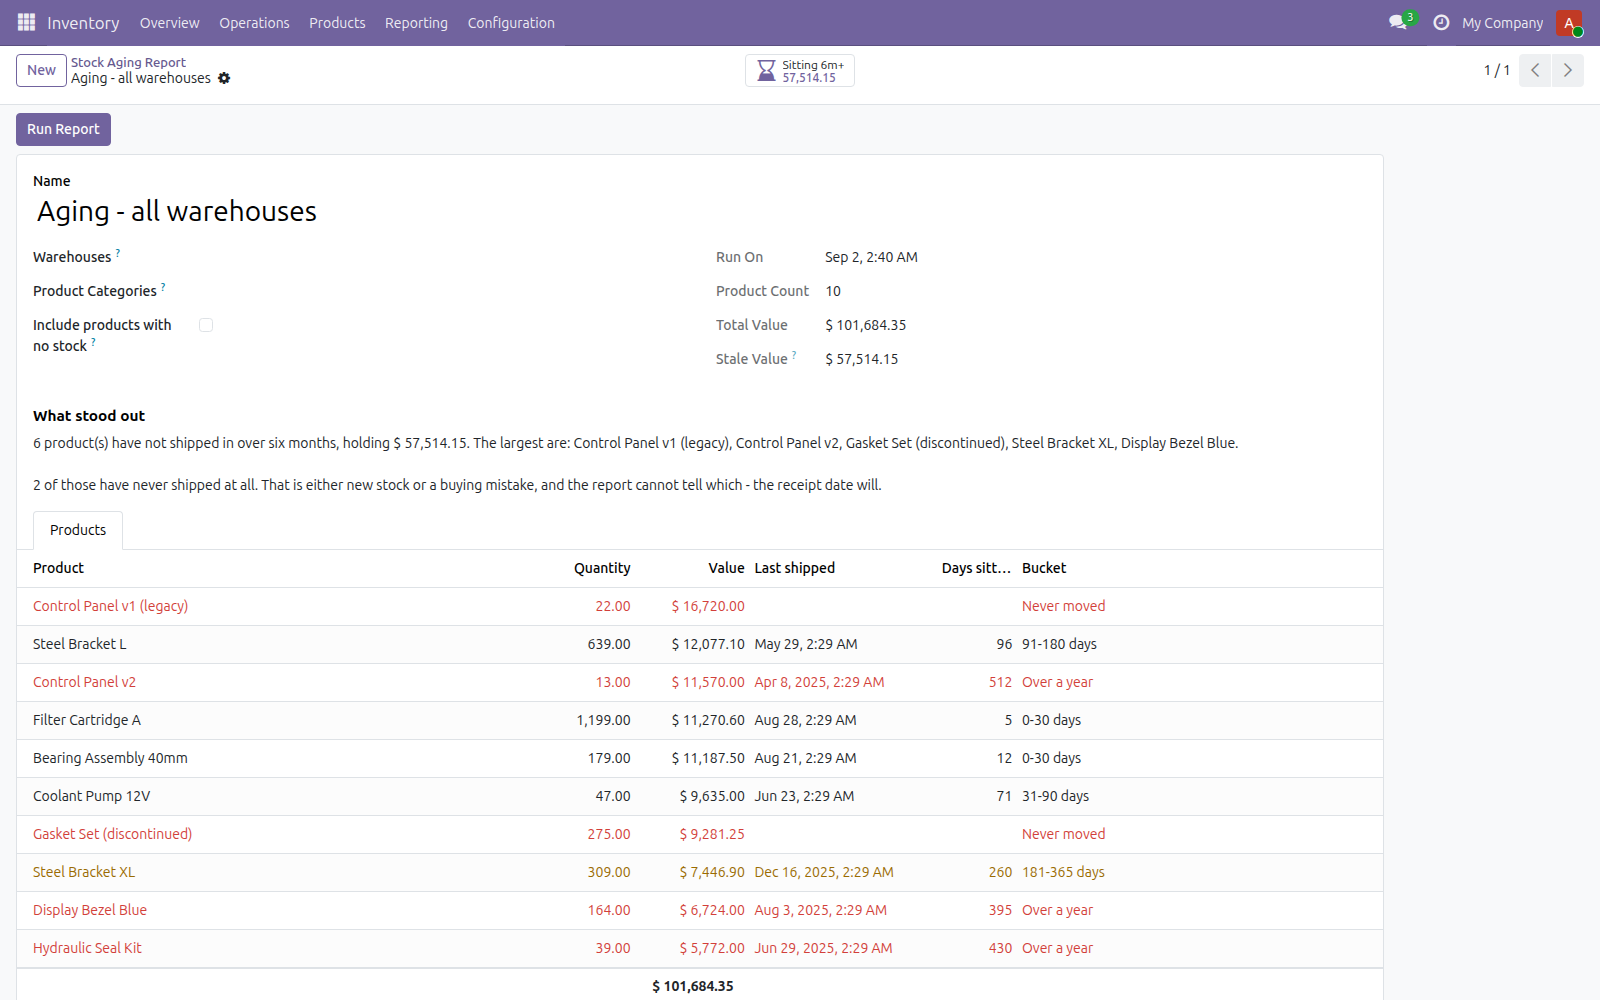
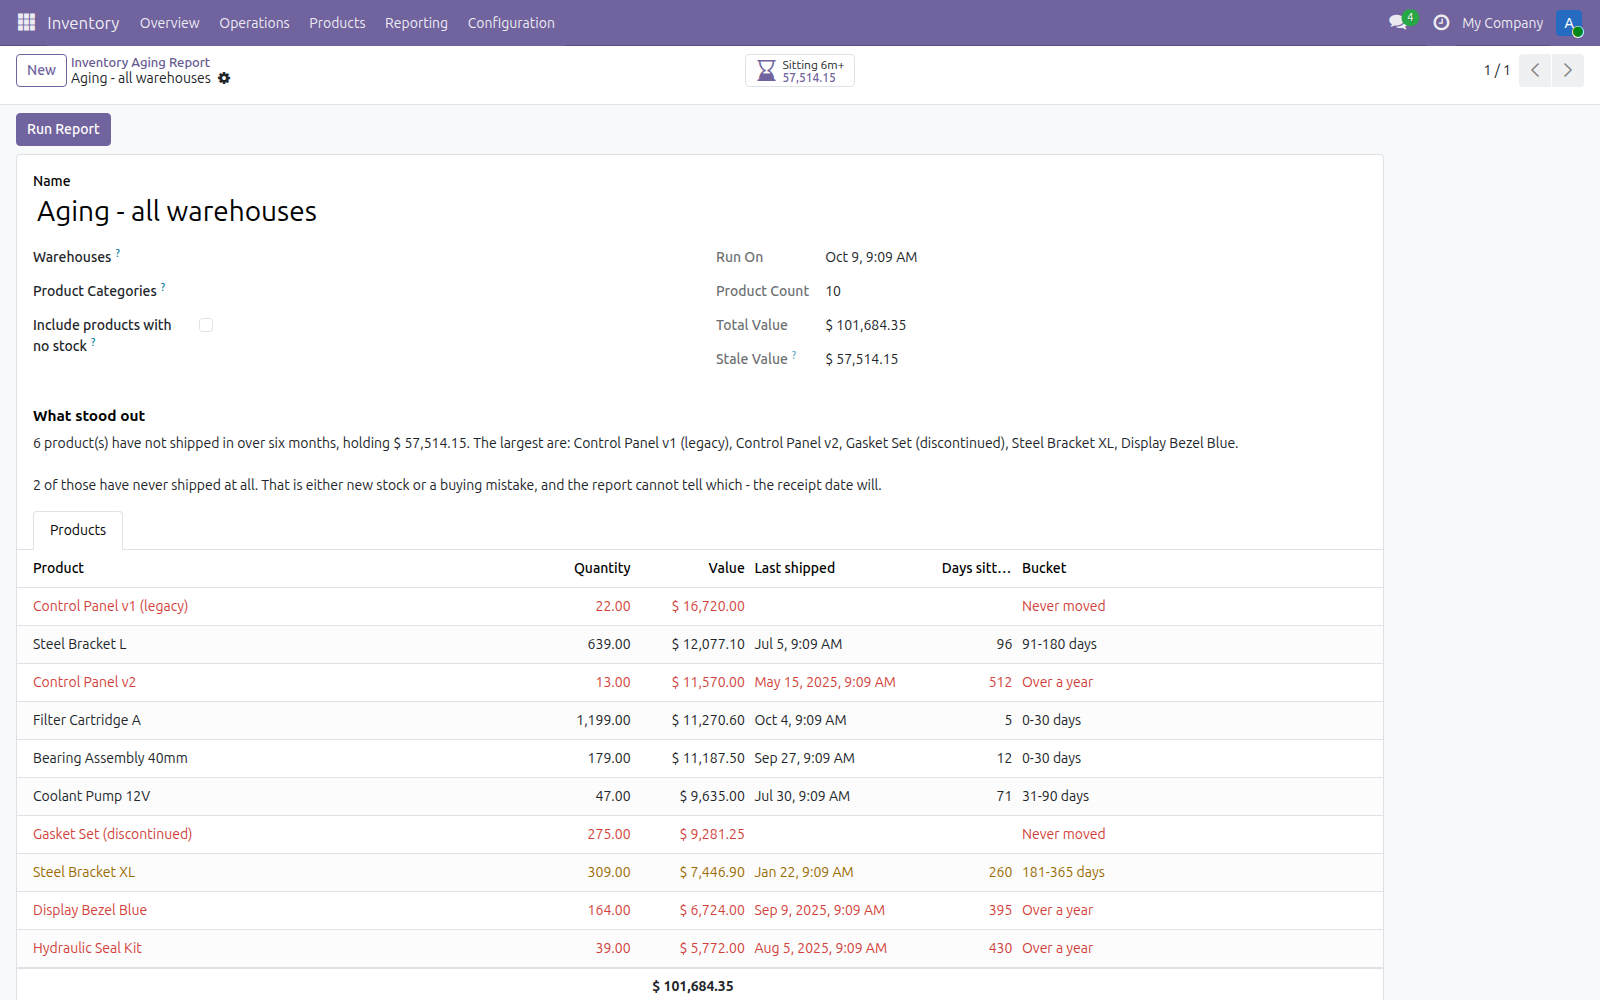
Odoo apps: Stock Aging Report is now Inventory Aging Report
New name and search summary, the re-uploaded demo video, and the
recaptured screenshot. The page keeps its stock-aging-report URL.

diff --git a/src/data/odooApps.js b/src/data/odooApps.js
@@ -3033,8 +3033,8 @@ export const odooApps = [
   {
     "tech": "mh_stock_aging_report",
     "slug": "stock-aging-report",
-    "name": "Stock Aging Report",
-    "summary": "Age your inventory into buckets by how long it has sat unsold, with the capital tied up in each, per warehouse and category",
+    "name": "Inventory Aging Report",
+    "summary": "Stock aging report (stock ageing, inventory ageing): how long stock has sat unsold and the capital tied up in each age bucket, per warehouse and category",
     "tagline": "Age your inventory into buckets by how long it has sat unsold, with the capital tied up in each, per warehouse and category",
     "intro": [
       "Quantity on hand tells you nothing about whether stock is a problem. The same 500 units are healthy in a fast-moving line and dead capital in a slow one. What separates them is the date something last actually left the building - and that is not on the quant.",
@@ -3081,7 +3081,7 @@ export const odooApps = [
     "manifestPrice": 39.0,
     "currency": "USD",
     "category": "Warehouse",
-    "version": "19.0.1.0.12",
+    "version": "19.0.1.0.16",
     "license": "OPL-1",
     "depends": [
       "stock"
@@ -3094,7 +3094,7 @@ export const odooApps = [
     ],
     "copyWords": 324,
     "hasVideo": true,
-    "youtubeId": "SDHwcVtzEe0",
+    "youtubeId": "5gZIX1k6XNo",
     "externalPage": null
   },
   {
